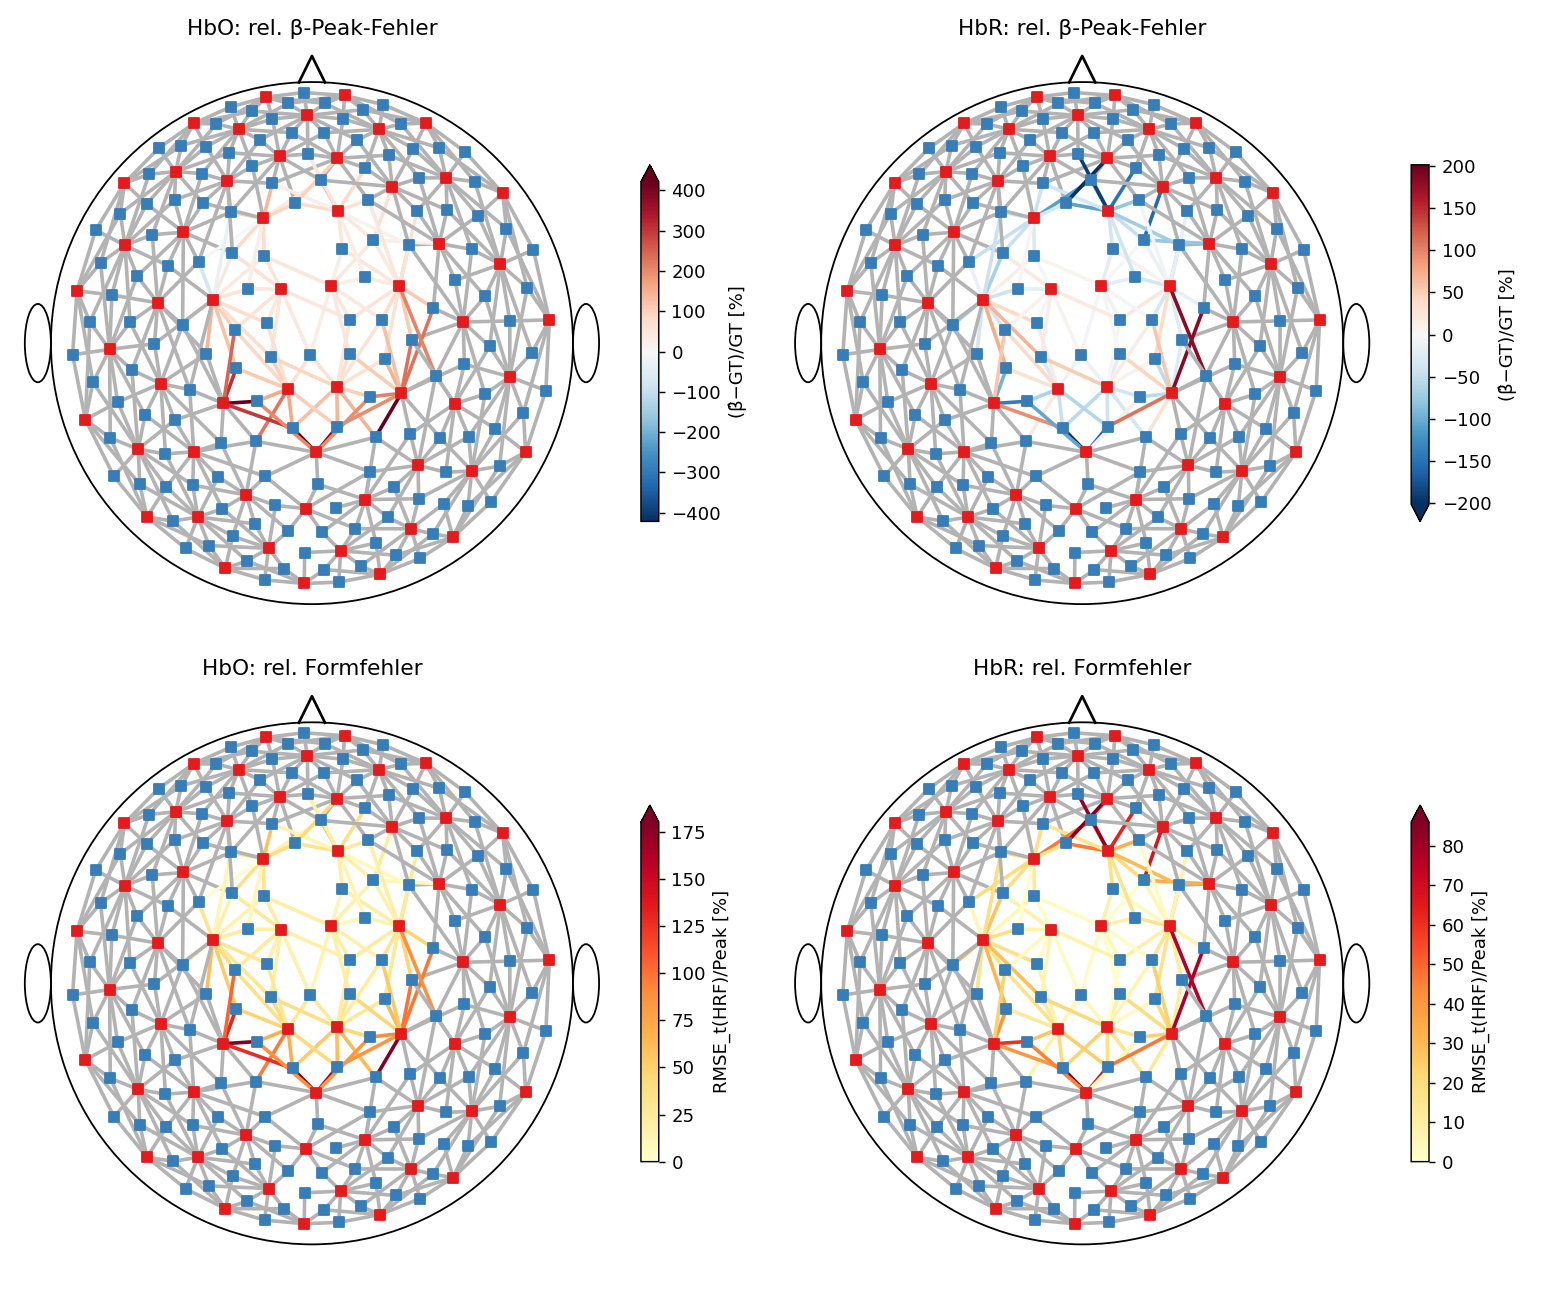
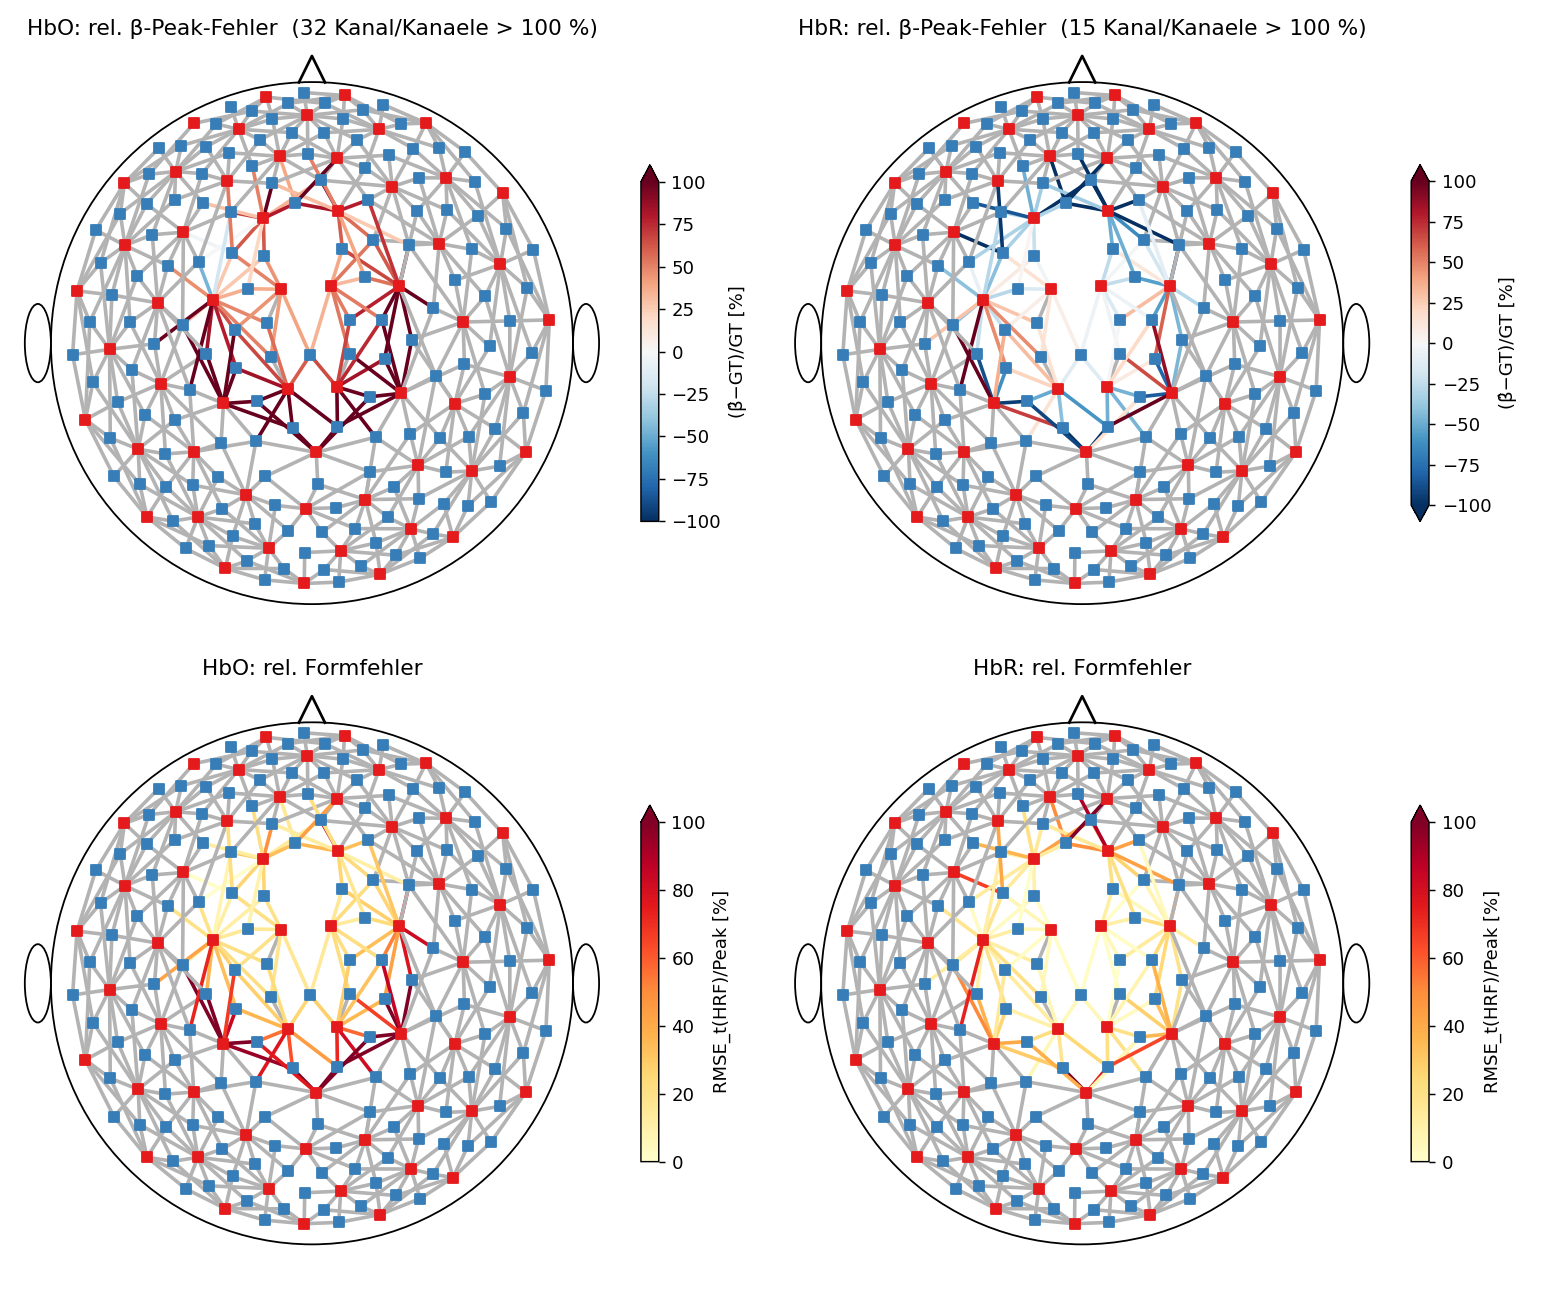
vergleich: Erhalt der eingemischten HRF-Amplitude je Korrekturverfahren gemessen
TDDR laesst rund 62 % der eingemischten HRF-Amplitude uebrig (Wavelet 100 %). Zusammen
mit dem Bias aus dem Vergleichslauf zeigt das, dass der kleine TDDR-Bias bei HbO keine
bessere Schaetzung ist, sondern eine Daempfung, die die systemisch bedingte
Ueberschaetzung zufaellig aufhebt -- bei HbR, wo dieser Gegenfehler fehlt, verschlechtert
TDDR den Bias. Dazu Abb. 11 und die Erklaerung, warum die relative Abweichung in Abb. 5
bei 67 % liegt und im Sweep bei 21 % (verschiedene Kanalmengen).

diff --git a/compare_preprocessing.py b/compare_preprocessing.py
@@ -64,6 +64,86 @@ VARIANTS = {
 }
 
 
+RETENTION_METHODS = ("none", "wavelet", "tddr", "tddr+wavelet")
+
+
+def hrf_retention(stage, methods=RETENTION_METHODS, seeds=(0, 1)):
+    """Wie viel der EINGEMISCHTEN HRF-Amplitude ueberlebt die Bewegungskorrektur?
+
+    Das ist die Kernzahl fuer die Bewertung der Korrekturverfahren -- und sie braucht
+    keinen GLM-Fit: die Aktivierung ist bekannt, also laesst sich direkt vergleichen,
+    was nach der Kette davon ankommt. Gemessen am Ort des wahren Maximums, je Chromophor.
+
+    1.00 = unveraendert. Ohne Korrektur muss der Wert exakt 1 sein (der Weg
+    Konzentration -> OD -> Konzentration ist verlustfrei); jede Abweichung darunter ist
+    der Eingriff des Verfahrens in das gesuchte Signal.
+    """
+    recs = []
+    for m in methods:
+        for seed in seeds:
+            t = time.time()
+            P = pl.build(window_s=WINDOW_S, stage=stage, motion_method=m, seed=seed)
+            got = (P.conc_syn - P.conc).transpose(*P.activation.dims)
+            row = dict(motion_method=m, seed=seed)
+            for ch in ("HbO", "HbR"):
+                w = np.asarray(P.activation.sel(chromo=ch).values, float)
+                g = np.asarray(got.sel(chromo=ch).values, float)
+                j = np.unravel_index(np.argmax(np.abs(w)), w.shape)
+                row[ch] = float(g[j] / w[j])
+            recs.append(row)
+            print(f"  Erhalt {m:14s} seed={seed}: HbO {row['HbO']:.3f}  "
+                  f"HbR {row['HbR']:.3f}  ({time.time() - t:5.1f}s)", flush=True)
+    return pd.DataFrame(recs)
+
+
+def figure(df, ret):
+    """Zwei Bilder: was die Korrektur mit dem Signal macht, und was daraus folgt."""
+    import matplotlib
+    matplotlib.use("Agg")
+    import matplotlib.pyplot as plt
+
+    fig, axes = plt.subplots(1, 2, figsize=(14, 5))
+
+    # links: Erhalt der eingemischten Amplitude
+    ax = axes[0]
+    g = ret.groupby("motion_method")[["HbO", "HbR"]].mean().reindex(
+        [m for m in RETENTION_METHODS if m in set(ret.motion_method)])
+    x = np.arange(len(g))
+    for k, ch in enumerate(["HbO", "HbR"]):
+        ax.bar(x + (k - 0.5) * 0.38, g[ch].values * 100, width=0.36, label=ch,
+               color="#c44e52" if k == 0 else "#4c72b0")
+    ax.axhline(100, ls="--", color="k", lw=1)
+    ax.set_xticks(x); ax.set_xticklabels(g.index, rotation=20, ha="right")
+    ax.set_ylabel("erhaltene HRF-Amplitude [%]")
+    ax.set_title("Was die Bewegungskorrektur mit der gesuchten Antwort macht\n"
+                 "(100 % = unangetastet; gemessen am Ort des wahren Maximums)")
+    ax.grid(axis="y", alpha=0.3); ax.legend()
+
+    # rechts: Folge fuer die Schaetzung (Bias, aus dem Vergleichslauf)
+    ax = axes[1]
+    order = [v for v in VARIANTS if v in set(df.variante)]
+    x = np.arange(len(order))
+    for k, ch in enumerate(["HbO", "HbR"]):
+        d = df[(df.chromo == ch) & (df.regressoren == "baseline")]
+        v = [float(d[d.variante == o].bias.iloc[0]) if len(d[d.variante == o]) else np.nan
+             for o in order]
+        ax.bar(x + (k - 0.5) * 0.38, v, width=0.36, label=ch,
+               color="#c44e52" if k == 0 else "#4c72b0")
+        truth = float(d.beta_true_med.iloc[0]) if len(d) else np.nan
+        ax.axhline(0, color="k", lw=1)
+    ax.set_xticks(x); ax.set_xticklabels(order, rotation=20, ha="right", fontsize=8)
+    ax.set_ylabel("Bias [µM]")
+    ax.set_title("Folge für die Schätzung: der Fehler\n"
+                 "(0 = unverzerrt; positiv = Überschätzung)")
+    ax.grid(axis="y", alpha=0.3); ax.legend()
+
+    fig.suptitle("Warum die Bewegungskorrektur eine eigene Vergleichsachse ist: "
+                 "TDDR dämpft die gesuchte Antwort selbst")
+    fig.tight_layout()
+    fig.savefig(Path(__file__).parent / "figures" / "11_preprocessing_effect.png", dpi=130)
+    plt.close(fig)
+
+
 def metrics(bhat, truth):
     """Bias/RMSE/Streuung von beta_hat gegen die per-Kanal-Wahrheit.
 
@@ -141,6 +221,16 @@ def main(seeds):
 
     df = pd.DataFrame(recs)
     df.to_csv(RESULTS / "preprocessing_comparison.csv", index=False)
+
+    # Der Erhalt der eingemischten Amplitude -- die Kernzahl fuer die Bewertung der
+    # Korrekturverfahren. Braucht keinen Fit, deshalb hier billig mitgemessen.
+    print("\nErhalt der eingemischten HRF-Amplitude:", flush=True)
+    ret = hrf_retention(stage, seeds=seeds[:2])
+    ret.to_csv(RESULTS / "hrf_retention.csv", index=False)
+    print(ret.groupby("motion_method")[["HbO", "HbR"]].mean()
+             .to_string(float_format=lambda v: f"{100 * v:.1f} %"))
+    figure(df, ret)
+    print(f"-> {RESULTS / 'hrf_retention.csv'} + figures/11_preprocessing_effect.png")
 
     print(f"\n[OK] {time.time() - t0:.0f}s -> {RESULTS / 'preprocessing_comparison.csv'}\n")
     for chromo in ("HbO", "HbR"):

diff --git a/DOKUMENTATION.md b/DOKUMENTATION.md
@@ -332,7 +332,19 @@ Empfänger auf dem Kopf.*
 
 ![Kopf-Karte der relativen Abweichung](figures/05_scalp_rel_abweichung.png)
 *Abb. 5 – Relative Abweichung, nur in der aktiven Region gezeigt (graue Kanäle liegen
-außerhalb der Aktivierung). Oben: relativer Fehler der Amplitude; unten: ein Formfehler-Maß.*
+außerhalb der Aktivierung). Oben: relativer Fehler der Amplitude; unten: ein Formfehler-Maß.
+Die Farbskala ist fest auf ±100 % begrenzt; wie viele Kanäle darüber liegen, steht im Titel.*
+
+> **Warum hier 67 % stehen und im Sweep 21 %.** Beide Zahlen sind richtig, sie beziehen sich
+> auf verschiedene Kanäle. Der Sweep wertet die **20 am stärksten aktivierten** Kanäle aus –
+> dort ist die eingemischte Stärke 0,6 µM, und ein Fehler von 0,12 µM sind 21 %. Diese
+> Kopf-Karte zeigt **alle** Kanäle, in denen überhaupt etwas eingemischt wurde, also auch den
+> Rand des Flecks. Dort beträgt die Wahrheit nur noch 0,06 µM – derselbe absolute Fehler ist
+> dann 200 %. Der Median über alle diese Kanäle liegt bei 67 % (HbO) bzw. 39 % (HbR).
+>
+> Am Rand ist also nicht die Methode schlechter, sondern die Bezugsgröße kleiner. Für die
+> Bewertung der Driftfamilien zählt der Blob-Kern (Kapitel 5/6); diese Karte zeigt, **wo** im
+> Feld der Fehler sitzt – und das ist am Rand, wie erwartet.*
 
 ---
 
